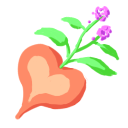
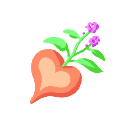
fix the everything - Added relic sprite outline - Reduced relic sprite sizes - Fixed localization file strings

Changed region(s): [[0.0938, 0.0312, 0.9375, 0.9375]]

diff --git a/src/main/java/spireQuests/quests/mangochicken/relics/HeartyAnchor.java b/src/main/java/spireQuests/quests/mangochicken/relics/HeartyAnchor.java
@@ -1,12 +1,9 @@
 package spireQuests.quests.mangochicken.relics;
 
-import basemod.abstracts.cardbuilder.actionbuilder.ActionBuilder;
 import com.evacipated.cardcrawl.mod.stslib.actions.tempHp.AddTemporaryHPAction;
-import com.megacrit.cardcrawl.actions.GameActionManager;
+import com.megacrit.cardcrawl.actions.common.RelicAboveCreatureAction;
 import com.megacrit.cardcrawl.dungeons.AbstractDungeon;
-import com.megacrit.cardcrawl.rooms.AbstractRoom;
 import spireQuests.abstracts.AbstractSQRelic;
-import spireQuests.util.Wiz;
 
 import static spireQuests.Anniv8Mod.makeID;
 
@@ -14,14 +11,14 @@ public class HeartyAnchor extends AbstractSQRelic {
     public static final String ID = makeID(HeartyAnchor.class.getSimpleName());
 
     public HeartyAnchor() {
-        super(ID, "mangochicken", RelicTier.SPECIAL, LandingSound.SOLID);
+        super(ID, "mangochicken", RelicTier.SPECIAL, LandingSound.MAGICAL);
     }
 
     @Override
-    public void atTurnStart() {
-        if (GameActionManager.turn == 1 && Wiz.isInCombat()) {
-            this.flash();
-            addToBot(new AddTemporaryHPAction(AbstractDungeon.player, AbstractDungeon.player, 6));
-        }
+    public void atBattleStart() {
+        this.flash();
+        this.addToBot(new RelicAboveCreatureAction(AbstractDungeon.player, this));
+        this.addToBot(new AddTemporaryHPAction(AbstractDungeon.player, AbstractDungeon.player, 6));
+        this.grayscale = true;
     }
 }

diff --git a/src/main/java/spireQuests/quests/mangochicken/HandicapQuest.java b/src/main/java/spireQuests/quests/mangochicken/HandicapQuest.java
@@ -1,25 +1,32 @@
 package spireQuests.quests.mangochicken;
 
-import com.evacipated.cardcrawl.modthespire.lib.SpirePostfixPatch;
 import com.megacrit.cardcrawl.actions.GameActionManager;
 import com.megacrit.cardcrawl.dungeons.AbstractDungeon;
 import com.megacrit.cardcrawl.rooms.MonsterRoomElite;
 import spireQuests.patches.QuestTriggers;
 import spireQuests.quests.AbstractQuest;
-
+import spireQuests.quests.QuestReward;
+import spireQuests.quests.mangochicken.relics.HeartyAnchor;
 
 
 public class HandicapQuest extends AbstractQuest {
     public HandicapQuest() {
         super(QuestType.SHORT, QuestDifficulty.NORMAL);
 
-        // Trigger only on the first turn of an elite combat
+
         new TriggerTracker<>(QuestTriggers.TURN_END, 1)
             .triggerCondition((x)-> AbstractDungeon.actionManager.cardsPlayedThisTurn.isEmpty()
                 && AbstractDungeon.getCurrRoom() instanceof MonsterRoomElite
                 && GameActionManager.turn == 1)
             .setResetTrigger(QuestTriggers.PLAY_CARD)
-            .setResetTrigger(QuestTriggers.VICTORY) // maybe add ENTER_ROOM and LEAVE_ROOM just to make sure
+            .setResetTrigger(QuestTriggers.VICTORY)
             .add(this);
+
+        addReward(new QuestReward.RelicReward(new HeartyAnchor()));
+    }
+
+    @Override
+    public boolean canSpawn() {
+        return AbstractDungeon.actNum == 1;
     }
 }
